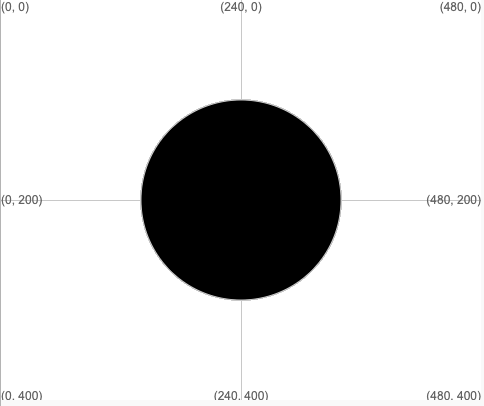
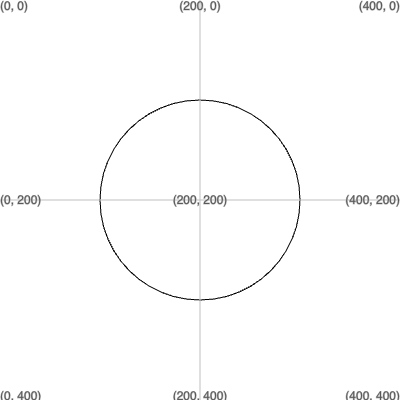
Updating project for editor

diff --git a/en/step_1.md b/en/step_1.md
@@ -26,21 +26,21 @@ You are going to make some design decisions about the kind of face you will make
 
 Look at these examples and think about how they have been made from circles, ellipses, squares, rectangles, and triangles.
 
-**Kawaii fruit**: [See inside](https://trinket.io/python/6bad88800b){:target="_blank"}
-<div class="trinket">
-  <iframe src="https://trinket.io/embed/python/6bad88800b?outputOnly=true&start=result" width="600" height="500" frameborder="0" marginwidth="0" marginheight="0" allowfullscreen>
+**Kawaii fruit**: [See inside](https://editor.raspberrypi.org/en/projects/fruit-face-example){:target="_blank"}
+<div>
+  <iframe src="https://editor.raspberrypi.org/en/embed/viewer/fruit-face-example" width="600" height="600" frameborder="0" marginwidth="0" marginheight="0" allowfullscreen>
   </iframe>
 </div>
 
-**Stacked faces**: [See inside](https://trinket.io/python/f90794771c){:target="_blank"}
-<div class="trinket">
-  <iframe src="https://trinket.io/embed/python/f90794771c?outputOnly=true&start=result" width="600" height="500" frameborder="0" marginwidth="0" marginheight="0" allowfullscreen>
+**Stacked faces**: [See inside](https://editor.raspberrypi.org/en/projects/stacked-faces-example){:target="_blank"}
+<div>
+  <iframe src="https://editor.raspberrypi.org/en/embed/viewer/stacked-faces-example" width="600" height="600" frameborder="0" marginwidth="0" marginheight="0" allowfullscreen>
   </iframe>
 </div>
 
-**Tribal mask**: [See inside](https://trinket.io/python/b876d500ab){:target="_blank"}
+**Tribal mask**: [See inside](https://editor.raspberrypi.org/en/projects/tribal-mask-example){:target="_blank"}
 <div class="trinket">
-  <iframe src="https://trinket.io/embed/python/b876d500ab?outputOnly=true&start=result" width="600" height="500" frameborder="0" marginwidth="0" marginheight="0" allowfullscreen>
+  <iframe src="https://editor.raspberrypi.org/en/embed/viewer/tribal-mask-example" width="600" height="600" frameborder="0" marginwidth="0" marginheight="0" allowfullscreen>
   </iframe>
 </div>
 
@@ -57,7 +57,7 @@ Look at these examples and think about how they have been made from circles, ell
 
 You are going to make some design decisions about the kind of face you will make and how you will use code to get the effect you want.
 
-See inside example projects in [Python 1: Make a face — Examples](https://trinket.io/library/folder/make-a-face-examples){:target="_blank"} Scratch studio.
+Investigate the example projects above, see if you can identify the shapes used to make the faces. You can click **See inside** to view the code.
 
 ![The output area from the Kawaii fruit project.](images/smile.png)
 ![The output area from the Stacked faces project.](images/stacked.png)

diff --git a/en/step_3.md b/en/step_3.md
@@ -15,23 +15,29 @@ Decide on the main shape of the face for your mask. It could be a circle, an ell
 
 Add code to the `draw()` function to draw a face or mask. Make sure you also remove `pass` from inside the function.
 
-This example draws a circle in the middle, but it's up to you which shape to use.
+This example draws a black circle in the middle, but it's up to you which shape and colour to use.
 
 --- code ---
 ---
 language: python
 filename: main.py - draw()
 line_numbers: true
-line_number_start: 11
-line_highlights: 12
+line_number_start: 10
+line_highlights: 14, 15
 ---
 
-def draw():   
-  ellipse(width/2, height/2, 200, 200) #Circle in the middle
+def draw():
+    # Put code to run every frame here
+    background(255, 255, 255) # Change to your background colour
+    
+    # Add code to draw your face here
+    ellipse(width/2, height/2, 200, 200) #Circle in the middle
+    
+    grid() # add a # to the beginning of this line to hide the grid
   
 --- /code ---
 
-![The output area showing a black circle in the middle of the grid.](images/black-circle.png)
+![The output area showing a black line circle in the middle of the grid.](images/black-circle.png)
 
 [[[processing-python-ellipse]]]
 
@@ -62,14 +68,13 @@ If you don't want an outline, then use `no_stroke()`.
 language: python
 filename: main.py - draw()
 line_numbers: true
-line_number_start: 11
-line_highlights: 13
+line_number_start: 13
+line_highlights: 14
 ---
 
-def draw():
-  stroke(0) #You can also use no_stroke() 
+  # Add code to draw your face here
   fill(255, 255, 0) #Bright yellow
-  ellipse(width/2, height/2, 200, 200) #Circle in the middle
+  ellipse(width/2, height/2, 200, 200)
   
 --- /code ---
 

diff --git a/en/step_8.md b/en/step_8.md
@@ -8,15 +8,15 @@ Here are some other ideas you could try:
 - Add interactivity — try our **Interactive: Theatre Mask**, what happens when you move your mouse across the screen?  
 - Add animation — try our **Animated: Frida**, what happens to Frida's headband when you run the project? 
 
-**Interactive: Theatre Mask**: [See inside](https://trinket.io/python/86d89fad13){:target="_blank"}
-<div class="trinket">
-  <iframe src="https://trinket.io/embed/python/86d89fad13?outputOnly=true&start=result" width="600" height="500" frameborder="0" marginwidth="0" marginheight="0" allowfullscreen>
+**Interactive: Theatre Mask**: [See inside](https://editor.raspberrypi.org/en/projects/interactive-face-example){:target="_blank"}
+<div>
+  <iframe src="https://editor.raspberrypi.org/en/embed/viewer/interactive-face-example" width="600" height="600" frameborder="0" marginwidth="0" marginheight="0" allowfullscreen>
   </iframe>
 </div>
 
-**Animated: Frida**: [See inside](https://trinket.io/python/3d69be294a){:target="_blank"}
-<div class="trinket">
-  <iframe src="https://trinket.io/embed/python/3d69be294a?outputOnly=true&start=result" width="600" height="500" frameborder="0" marginwidth="0" marginheight="0" allowfullscreen>
+**Animated: Frida**: [See inside](https://editor.raspberrypi.org/en/projects/animated-face-example){:target="_blank"}
+<div>
+  <iframe src="https://editor.raspberrypi.org/en/embed/viewer/animated-face-example" width="600" height="600" frameborder="0" marginwidth="0" marginheight="0" allowfullscreen>
   </iframe>
 </div>
 

diff --git a/en/step_5.md b/en/step_5.md
@@ -127,15 +127,15 @@ filename: main.py - draw()
 
 #Mouth    
 fill(90, 110, 184)     
-  red = 90 #Starting amount of red   
-  green = 110 #Starting amount of green    
-  blue = 180 #Starting amount of blue    
-  for i in range (0,6):     
-    rect(100, 300, 33, 50)     
-    fill(red, green, blue) #Uses variables to control the colour change each loop    
-    red = red+40     
-    blue = blue-30     
-    translate(33, 0) #Move along the x coordinate by the width of a tooth    
+red = 90 #Starting amount of red   
+green = 110 #Starting amount of green    
+blue = 180 #Starting amount of blue    
+for i in range (0,6):     
+  rect(100, 300, 33, 50)     
+  fill(red, green, blue) #Uses variables to control the colour change each loop    
+  red = red+40     
+  blue = blue-30     
+  translate(33, 0) #Move along the x coordinate by the width of a tooth    
 
 
 --- /code ---

diff --git a/en/step_2.md b/en/step_2.md
@@ -11,7 +11,7 @@ Have you got an idea about the kind of face or mask you want to make? Use this s
 
 --- task ---
 
-Open the [starter project](https://trinket.io/library/trinkets/54d15b9cdf){:target="_blank"}. Trinket will open in another browser tab.
+Open the [starter project](https://editor.raspberrypi.org/en/projects/make-face-starter){:target="_blank"}. The Raspberry Pi code editor will open in another browser tab.
 
 --- /task ---
 
@@ -127,7 +127,7 @@ filename: main.py - draw()
 title: I've updated my size and colour but the output area stays the same
 ---
 
-After changing the code, you will need to `run` your project to see the changes in the output area. 
+After changing the code, you will need to **`Run`** your project to see the changes in the output area. 
 
 --- /collapse ---
 

diff --git a/en/step_9.md b/en/step_9.md
@@ -2,14 +2,6 @@
 
 If you are in a club, why not share your project with friends?
 
-You could also show your family how your project works by sending them a link. 
-
-To get a link go to the **Share** menu button in the upper-right of your Trinket's edit page and select **Link**.
-
-![The 'Share' menu button extended, with 'Link' highlighted.](images/share-button.png)
-
-**Tip:** You can share a link to your project even if you don't have a Trinket account; however, without an account, the link to your project will change each time you update it. If you have shared the link with someone, you will need to send a new link for them to see the changes. 
-
 --- task ---
 
 Inspire the Raspberry Pi Foundation community with your project!

diff --git a/en/step_10.md b/en/step_10.md
@@ -10,7 +10,8 @@ If you are following the [Introduction to Python](https://projects.raspberrypi.o
 
 --- no-print ---
 
-<iframe src="https://trinket.io/embed/python/974800f4ef?outputOnly=true&start=result" width="100%" height="600" frameborder="0" marginwidth="0" marginheight="0" allowfullscreen></iframe>
+<iframe src="https://editor.raspberrypi.org/en/embed/viewer/dont-pop-example" width="600" height="600" frameborder="0" marginwidth="0" marginheight="0" allowfullscreen>
+</iframe>
 
 
 --- /no-print ---
